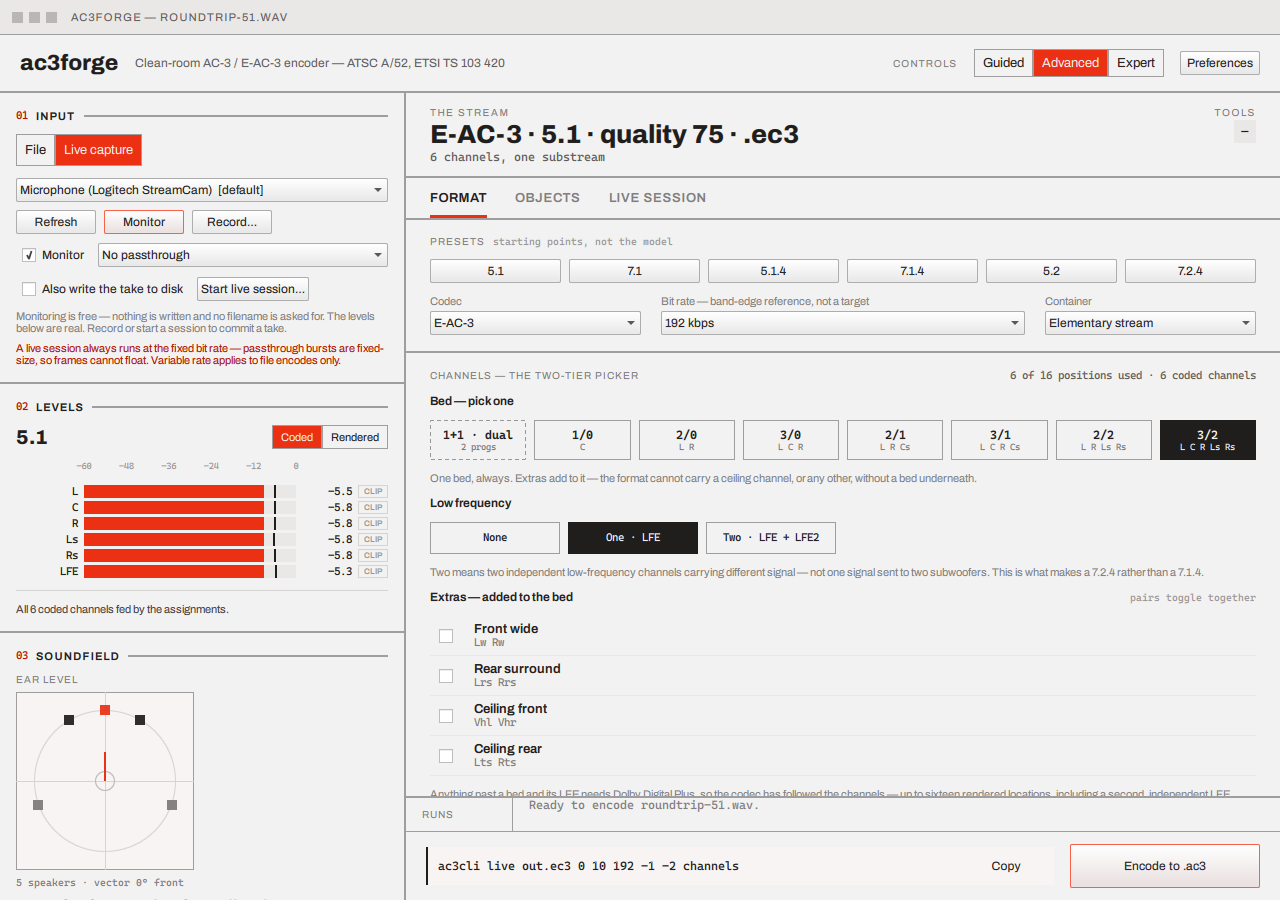
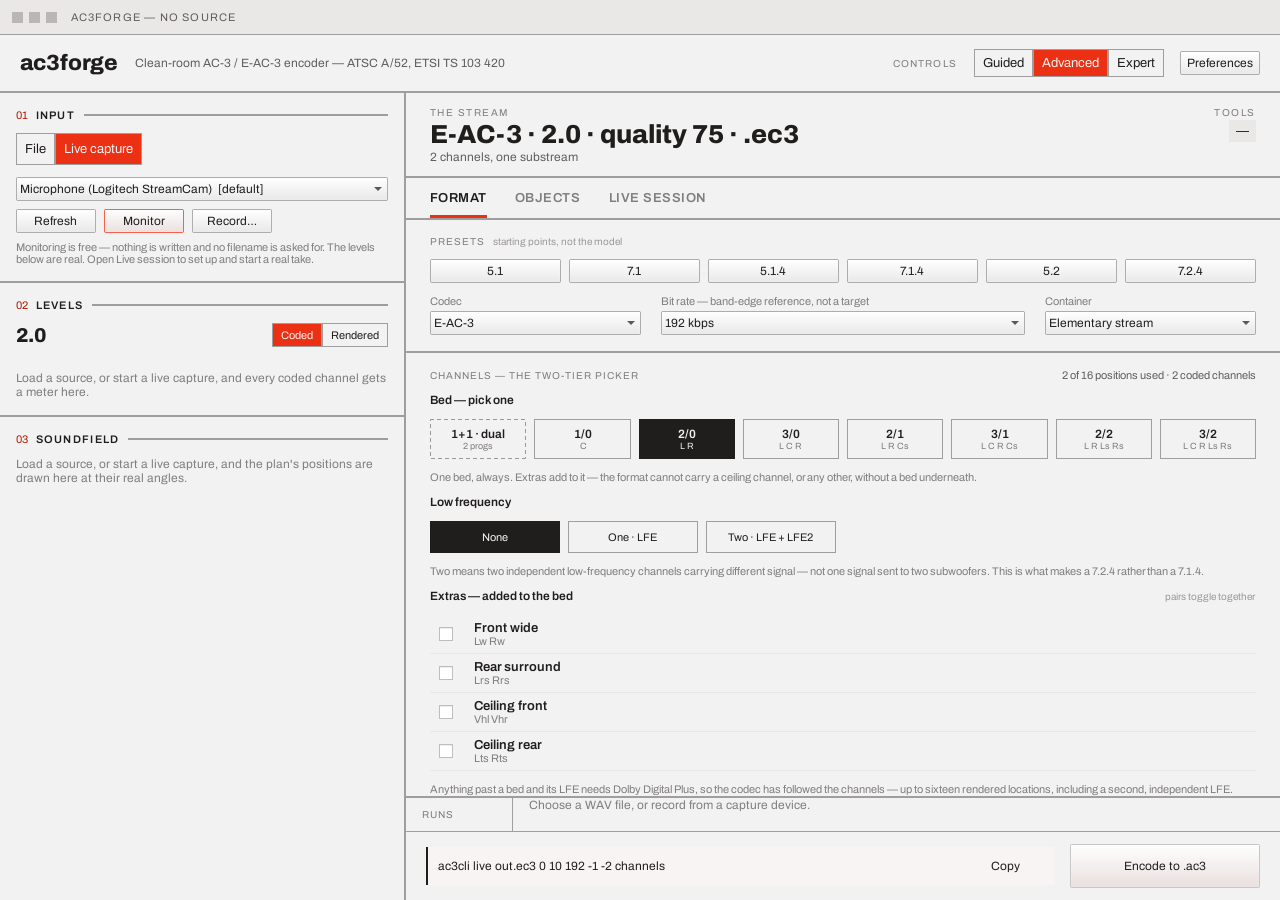
docs: regenerate stale format-vbr screenshot for bundle B1's rail split
The image still showed the pre-B1 rail: a write-to-disk checkbox, a
"Start live session..." button, and the VBR warning inline - all three
moved off the rail to the Live session tab's idle Card. Regenerated
against the real Format tab (live source, E-AC-3, VBR on) and dropped
the caption's now-false claim that the VBR warning appears on the rail.

diff --git a/docs/gui/format-and-channels.md b/docs/gui/format-and-channels.md
@@ -43,7 +43,7 @@ to vary; `frmsizecod` indexes a fixed table) and whenever the **live source is s
 61937 passthrough bursts are fixed-size per access unit — see
 [Live capture & session](live-session.md#the-vbr-warning)):
 
-![The VBR warning on the rail's live branch, the rate-mode panel absent](screenshots/format-vbr.png)
+![The rate-mode panel absent while a live source is selected](screenshots/format-vbr.png)
 
 **Constant** (the default) is the plain **Bit rate** dropdown above. **Variable** adds a
 **Quality** slider, 0 (smallest) to 100 (best) — encoder-relative, not a fixed target, and *not*
